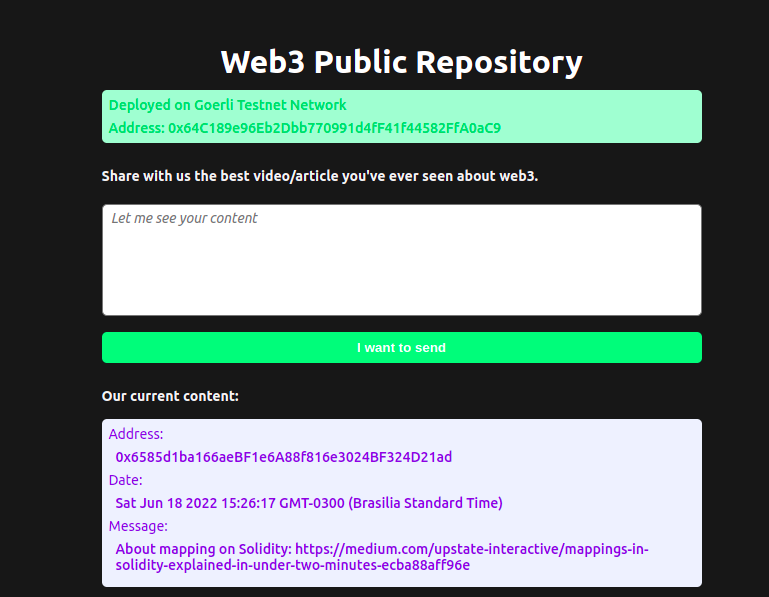
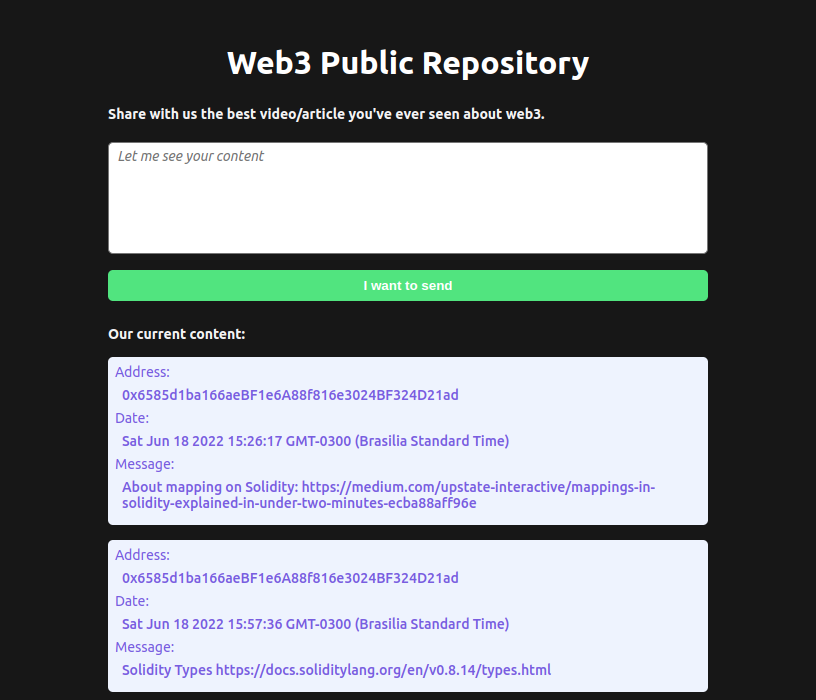
feat(frontend): new function to unshow content when metamask is locked

diff --git a/eth-text2me/src/App.jsx b/eth-text2me/src/App.jsx
@@ -28,10 +28,10 @@ export default function App() {
         });
         setAllWaves(wavesCleaned);
       } else {
-        console.log("Objeto Ethereum inexistente!");
+        console.error("Objeto Ethereum inexistente!");
       }
     } catch (error) {
-      console.log(error);
+      console.error(error);
     }
   };
 
@@ -71,25 +71,22 @@ export default function App() {
       const { ethereum } = window;
 
       if (!ethereum) {
-        console.log("Garanta que possua a Metamask instalada!");
+        console.error("Garanta que possua a Metamask instalada!");
         return;
-      } else {
-        console.log("Temos o objeto ethereum", ethereum);
       }
 
       const accounts = await ethereum.request({ method: "eth_accounts" });
 
       if (accounts.length !== 0) {
         const account = accounts[0];
-        console.log("Encontrada a conta autorizada:", account);
         setCurrentAccount(account)
         getAllWaves();
 
       } else {
-        console.log("Nenhuma conta autorizada foi encontrada")
+        console.error("Nenhuma conta autorizada foi encontrada")
       }
     } catch (error) {
-      console.log(error);
+      console.error(error);
     }
   }
 
@@ -101,13 +98,11 @@ export default function App() {
       const { ethereum } = window;
 
       if (!ethereum) {
-        alert("MetaMask encontrada!");
         return;
       }
 
       const accounts = await ethereum.request({ method: "eth_requestAccounts" });
 
-      console.log("Conectado", accounts[0]);
       setCurrentAccount(accounts[0]);
     } catch (error) {
       console.log(error)
@@ -124,7 +119,7 @@ export default function App() {
         const wavePortalContract = new ethers.Contract(contractAddress, contractABI, signer);
  
         let count = await wavePortalContract.getTotalWaves();
-        console.log("Recuperado o número de tchauzinhos...", count.toNumber());
+        console.log("Recuperado o número de messages...", count.toNumber());
 
         /*
         * Executar o aceno a partir do contrato inteligente
@@ -136,19 +131,29 @@ export default function App() {
         console.log("Minerado -- ", waveTxn.hash);
 
         count = await wavePortalContract.getTotalWaves();
-        console.log("Total de tchauzinhos recuperado...", count.toNumber());
+        console.log("Total de messages recuperado...", count.toNumber());
         
       } else {
-        console.log("Objeto Ethereum não encontrado!");
+        console.error("Objeto Ethereum não encontrado!");
       }
     } catch (error) {
-      console.log(error)
+      console.error(error)
     }
   }
 
   useEffect(() => {
     checkIfWalletIsConnected();
   }, [])
+
+  useEffect(() => {
+    setAccountListener();
+  }, [window.ethereum])
+
+  const setAccountListener = () => {
+    window.ethereum.on("accountsChanged", (accounts) => {
+      !accounts.length ? setCurrentAccount("") : setCurrentAccount(accounts[0]);
+    });
+  }
 
   return (
     <div className="mainContainer">
@@ -157,45 +162,50 @@ export default function App() {
         <div className="header">
           Web3 Public Repository
         </div>
-
-        <div className="alert">
-          <p>Deployed on Goerli Testnet Network </p>
-          <p>Address: 0x64C189e96Eb2Dbb770991d4fF41f44582FfA0aC9 </p>
-        </div>
         
         {!currentAccount && (
-          <button id="connectWalletButton" className="waveButton" onClick={connectWallet}>
-            Connect
-          </button>
+          <>
+            <div className="alert">
+              <p>Deployed on Goerli Testnet Network </p>
+              <p>Address: 0x64C189e96Eb2Dbb770991d4fF41f44582FfA0aC9 </p>
+            </div>
+            <button id="connectWalletButton" className="waveButton" onClick={connectWallet}>
+              Connect
+            </button>
+          </>
         )}
 
-        <div className="title">
-          Share with us the best video/article you've ever seen about web3.
-        </div>
+        {currentAccount && (
+          <>
+            <div className="title">
+              Share with us the best video/article you've ever seen about web3.
+            </div>
 
-        <textarea
-          type="text"
-          className="waveTextArea"
-          placeholder=" Let me see your content"
-          value={message}
-          onChange={e => setMessage(e.target.value)}
-        />
-        <button className="waveButton" onClick={() => {wave(); setMessage("")}}>
-          I want to send
-        </button>
+            <textarea
+              type="text"
+              className="waveTextArea"
+              placeholder=" Let me see your content"
+              value={message}
+              onChange={e => setMessage(e.target.value)}
+            />
+            <button className="waveButton" onClick={() => {wave(); setMessage("")}}>
+              I want to send
+            </button>
 
-        <div className="title">
-          Our current content:
-        </div>
+            <div className="title">
+              Our current content:
+            </div>
 
-        {allWaves.map((wave, index) => {
-          return (
-            <div key={index} className="list">
-              <div>Address: <p>{wave.address}</p></div>
-              <div>Date: <p>{wave.timestamp.toString()}</p></div>
-              <div>Message: <p>{wave.message}</p></div>
-            </div>)
-        })}
+            {allWaves.map((wave, index) => {
+              return (
+                <div key={index} className="list">
+                  <div>Address: <p>{wave.address}</p></div>
+                  <div>Date: <p>{wave.timestamp.toString()}</p></div>
+                  <div>Message: <p>{wave.message}</p></div>
+                </div>)
+            })}
+          </>
+        )}
       </div>
       
     </div>

diff --git a/eth-text2me/index.html b/eth-text2me/index.html
@@ -2,9 +2,8 @@
 <html lang="en">
   <head>
     <meta charset="UTF-8" />
-    <link rel="icon" type="image/svg+xml" href="/src/favicon.svg" />
     <meta name="viewport" content="width=device-width, initial-scale=1.0" />
-    <title>Vite App</title>
+    <title>Web3 Public Repository</title>
   </head>
   <body>
     <div id="root"></div>
